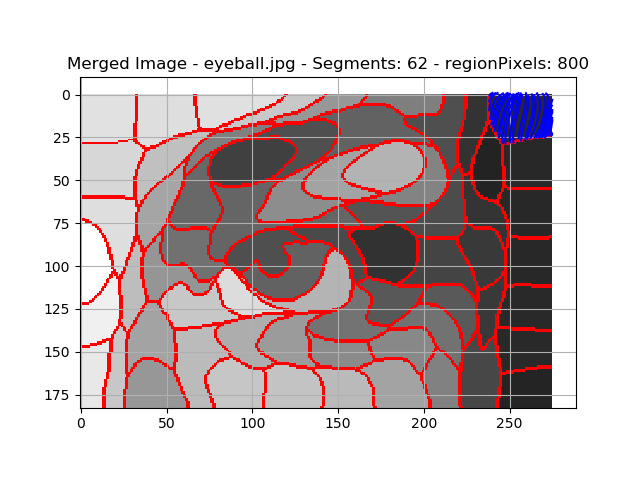
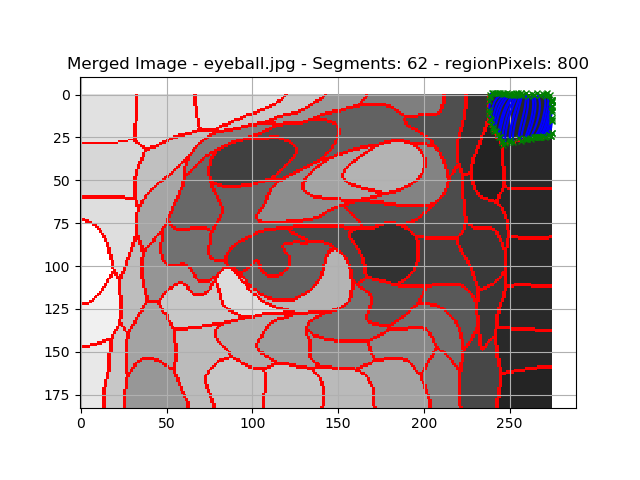
Can highlight the edge points.

Changed region(s): [[0.75, 0.1875, 0.875, 0.3125]]

diff --git a/PycharmProjects/geodesic/Bridson_FinishedImage.py b/PycharmProjects/geodesic/Bridson_FinishedImage.py
@@ -139,9 +139,11 @@ class FinishedImage:
 
 
 
-	def setCollections(self, maskRasterCollection, meshObjCollection ):
+	def setCollections(self, maskRasterCollection, meshObjCollection, regionConnectivity, distanceRasters ):
 		self.maskRasterCollection = maskRasterCollection
 		self.meshObjCollection = meshObjCollection
+		self.regionConnectivity = regionConnectivity
+		self.distanceRasters = distanceRasters
 
 
 	def mergeLines(self, regionMap, regionRaster, maskRasterCollection, meshObjCollection ):
@@ -285,12 +287,12 @@ class FinishedImage:
 			# if self.calculateLineSpacing(linePoints[0], linePoints[-1], intensity=regionIntensity) == False:
 			# 	return
 
-		for index in range(len(linePoints)):
+		for lineIndex in range(len(linePoints)):
 			# if count > 5:
 			# 	break
-			if index % Bridson_Common.lineSkip == 0:
-				colour = Bridson_Common.colourArray[ (index % len(Bridson_Common.colourArray) ) ]
-				line = linePoints[index].copy()
+			if lineIndex % Bridson_Common.lineSkip == 0:
+				colour = Bridson_Common.colourArray[ (lineIndex % len(Bridson_Common.colourArray) ) ]
+				line = linePoints[lineIndex].copy()
 				line = line * Bridson_Common.mergeScale
 				# For some reason we need to swap the topLeft x,y with the line x,y.
 				############## Shifting the lines.
@@ -308,6 +310,10 @@ class FinishedImage:
 					currentLine = line
 					initial = False
 					# count += 1
+
+		regionEdgeConnectivity = self.regionConnectivity[ index ]
+		for point in regionEdgeConnectivity.pointsOnEdge:
+			self.ax.plot(point[0], point[1]*flip, marker='x', color='g', markersize=4)
 
 
 	def findCloserDistance(self, l1p1, l1p2, l2p1):

diff --git a/PycharmProjects/geodesic/Bridson_Main.py b/PycharmProjects/geodesic/Bridson_Main.py
@@ -366,7 +366,7 @@ def indexValidation(filename):
 	# At this point, we need can attempt to merge the lines between each region.
 	# Still have a problem with the coordinates though.
 	finishedImageSLIC.mergeLines(regionMap, regionRaster, maskRasterCollection, meshObjCollection)
-	finishedImageNoSLIC.setCollections( maskRasterCollection, meshObjCollection )
+	finishedImageNoSLIC.setCollections( maskRasterCollection, meshObjCollection , finishedImageSLIC.regionConnectivity, finishedImageSLIC.distanceRasters)
 
 	for index in meshObjCollection.keys():
 		# Draw the region contour lines onto the finished image.
